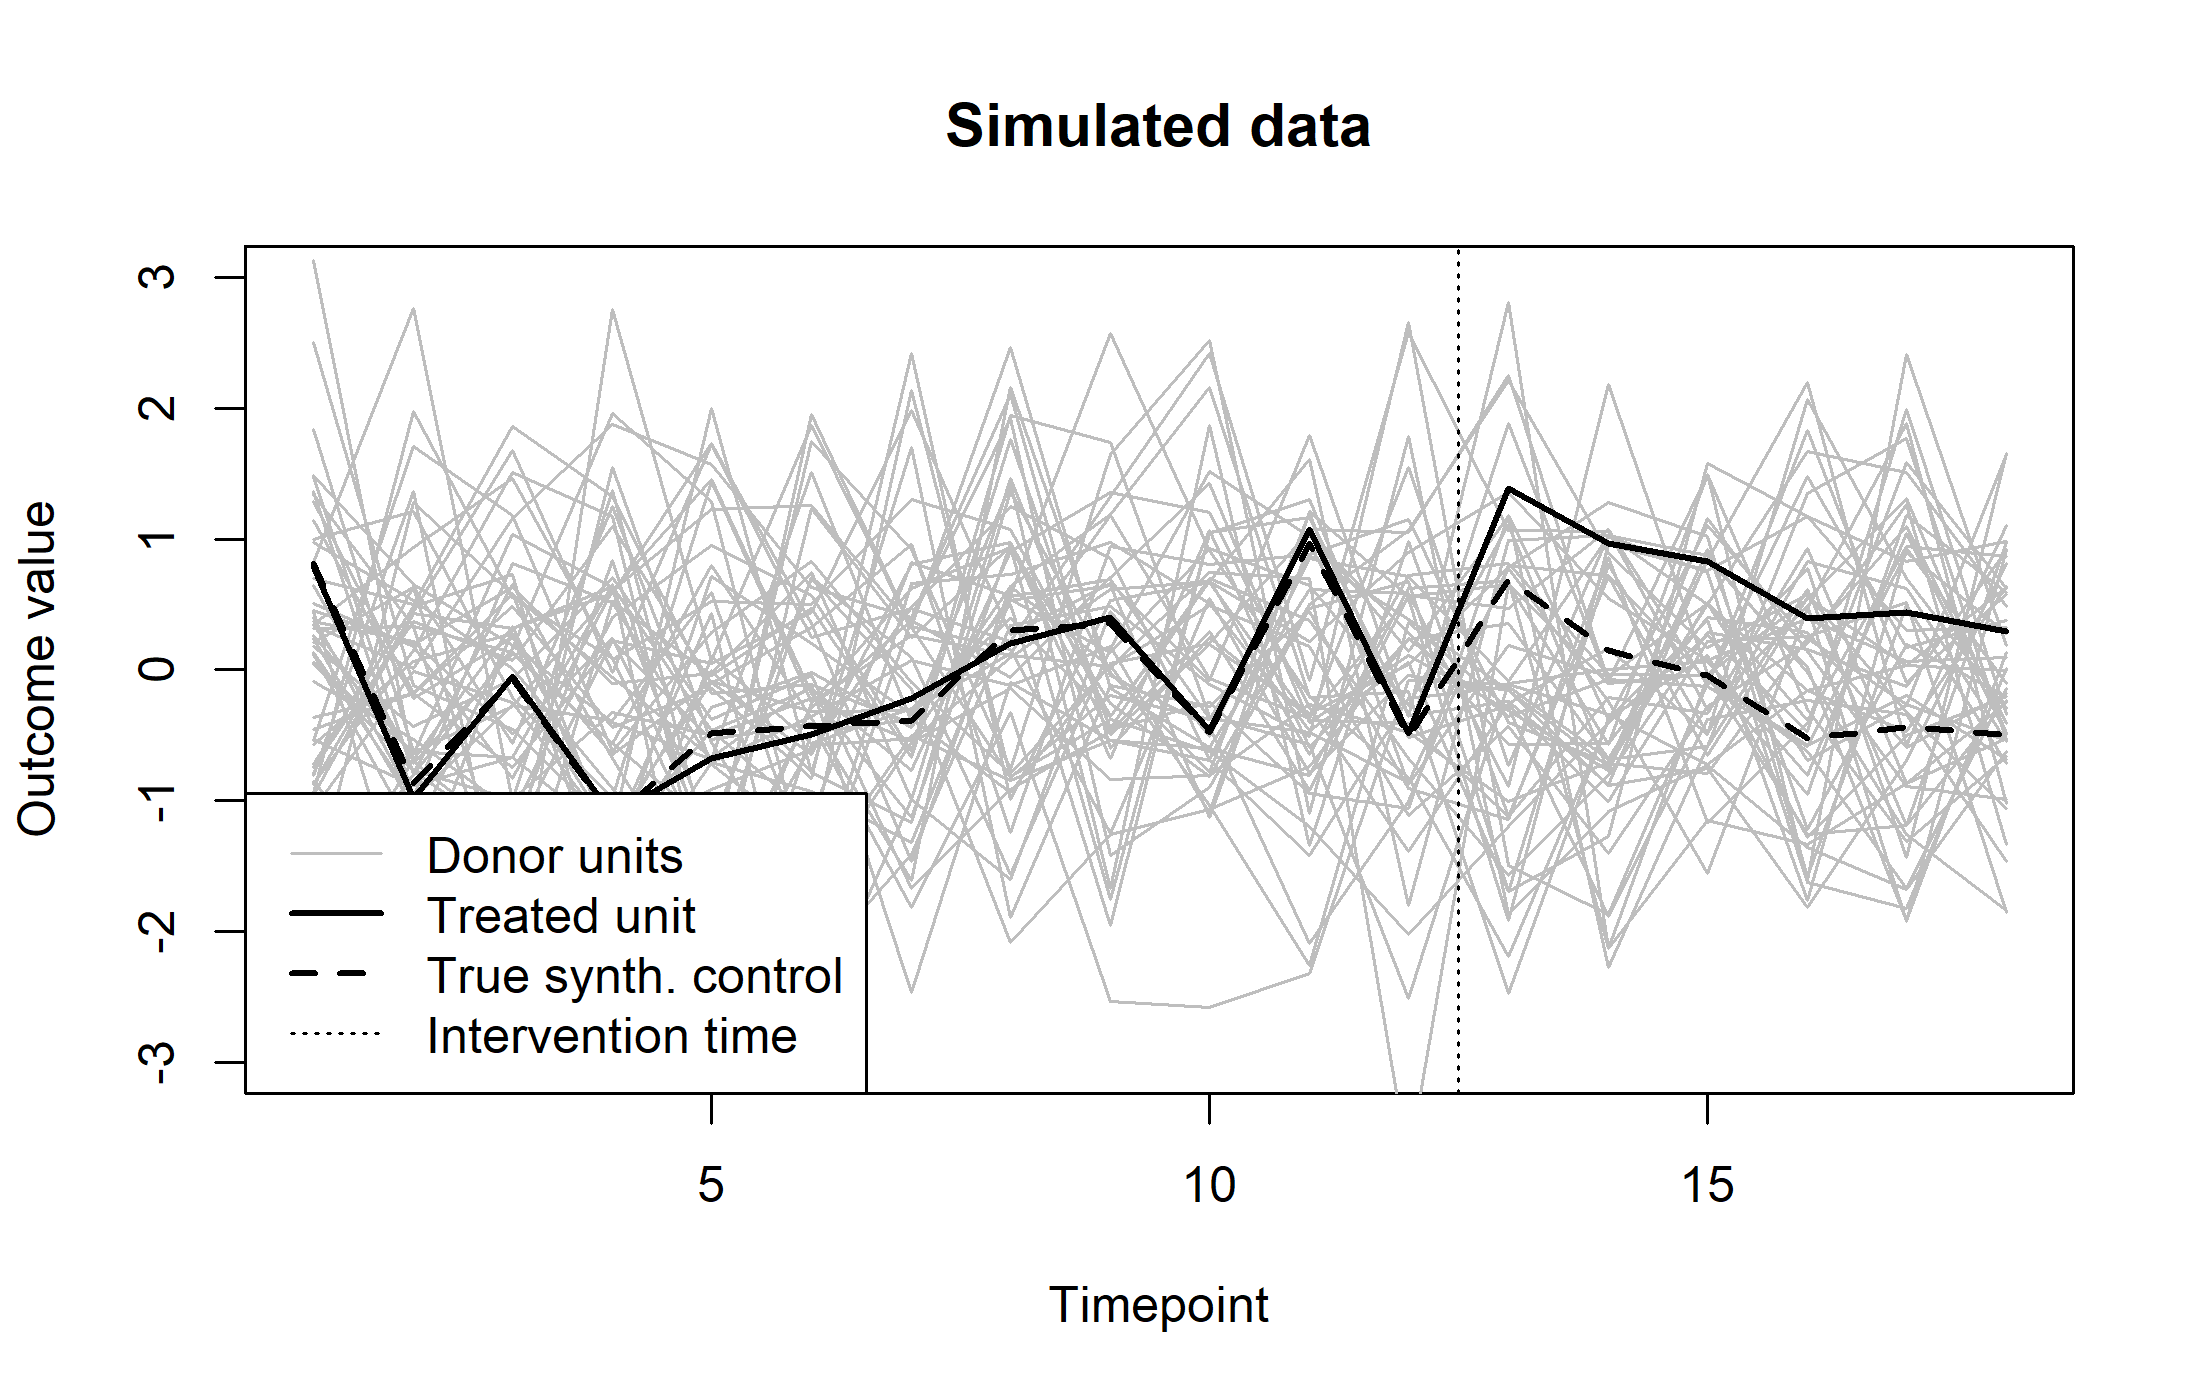
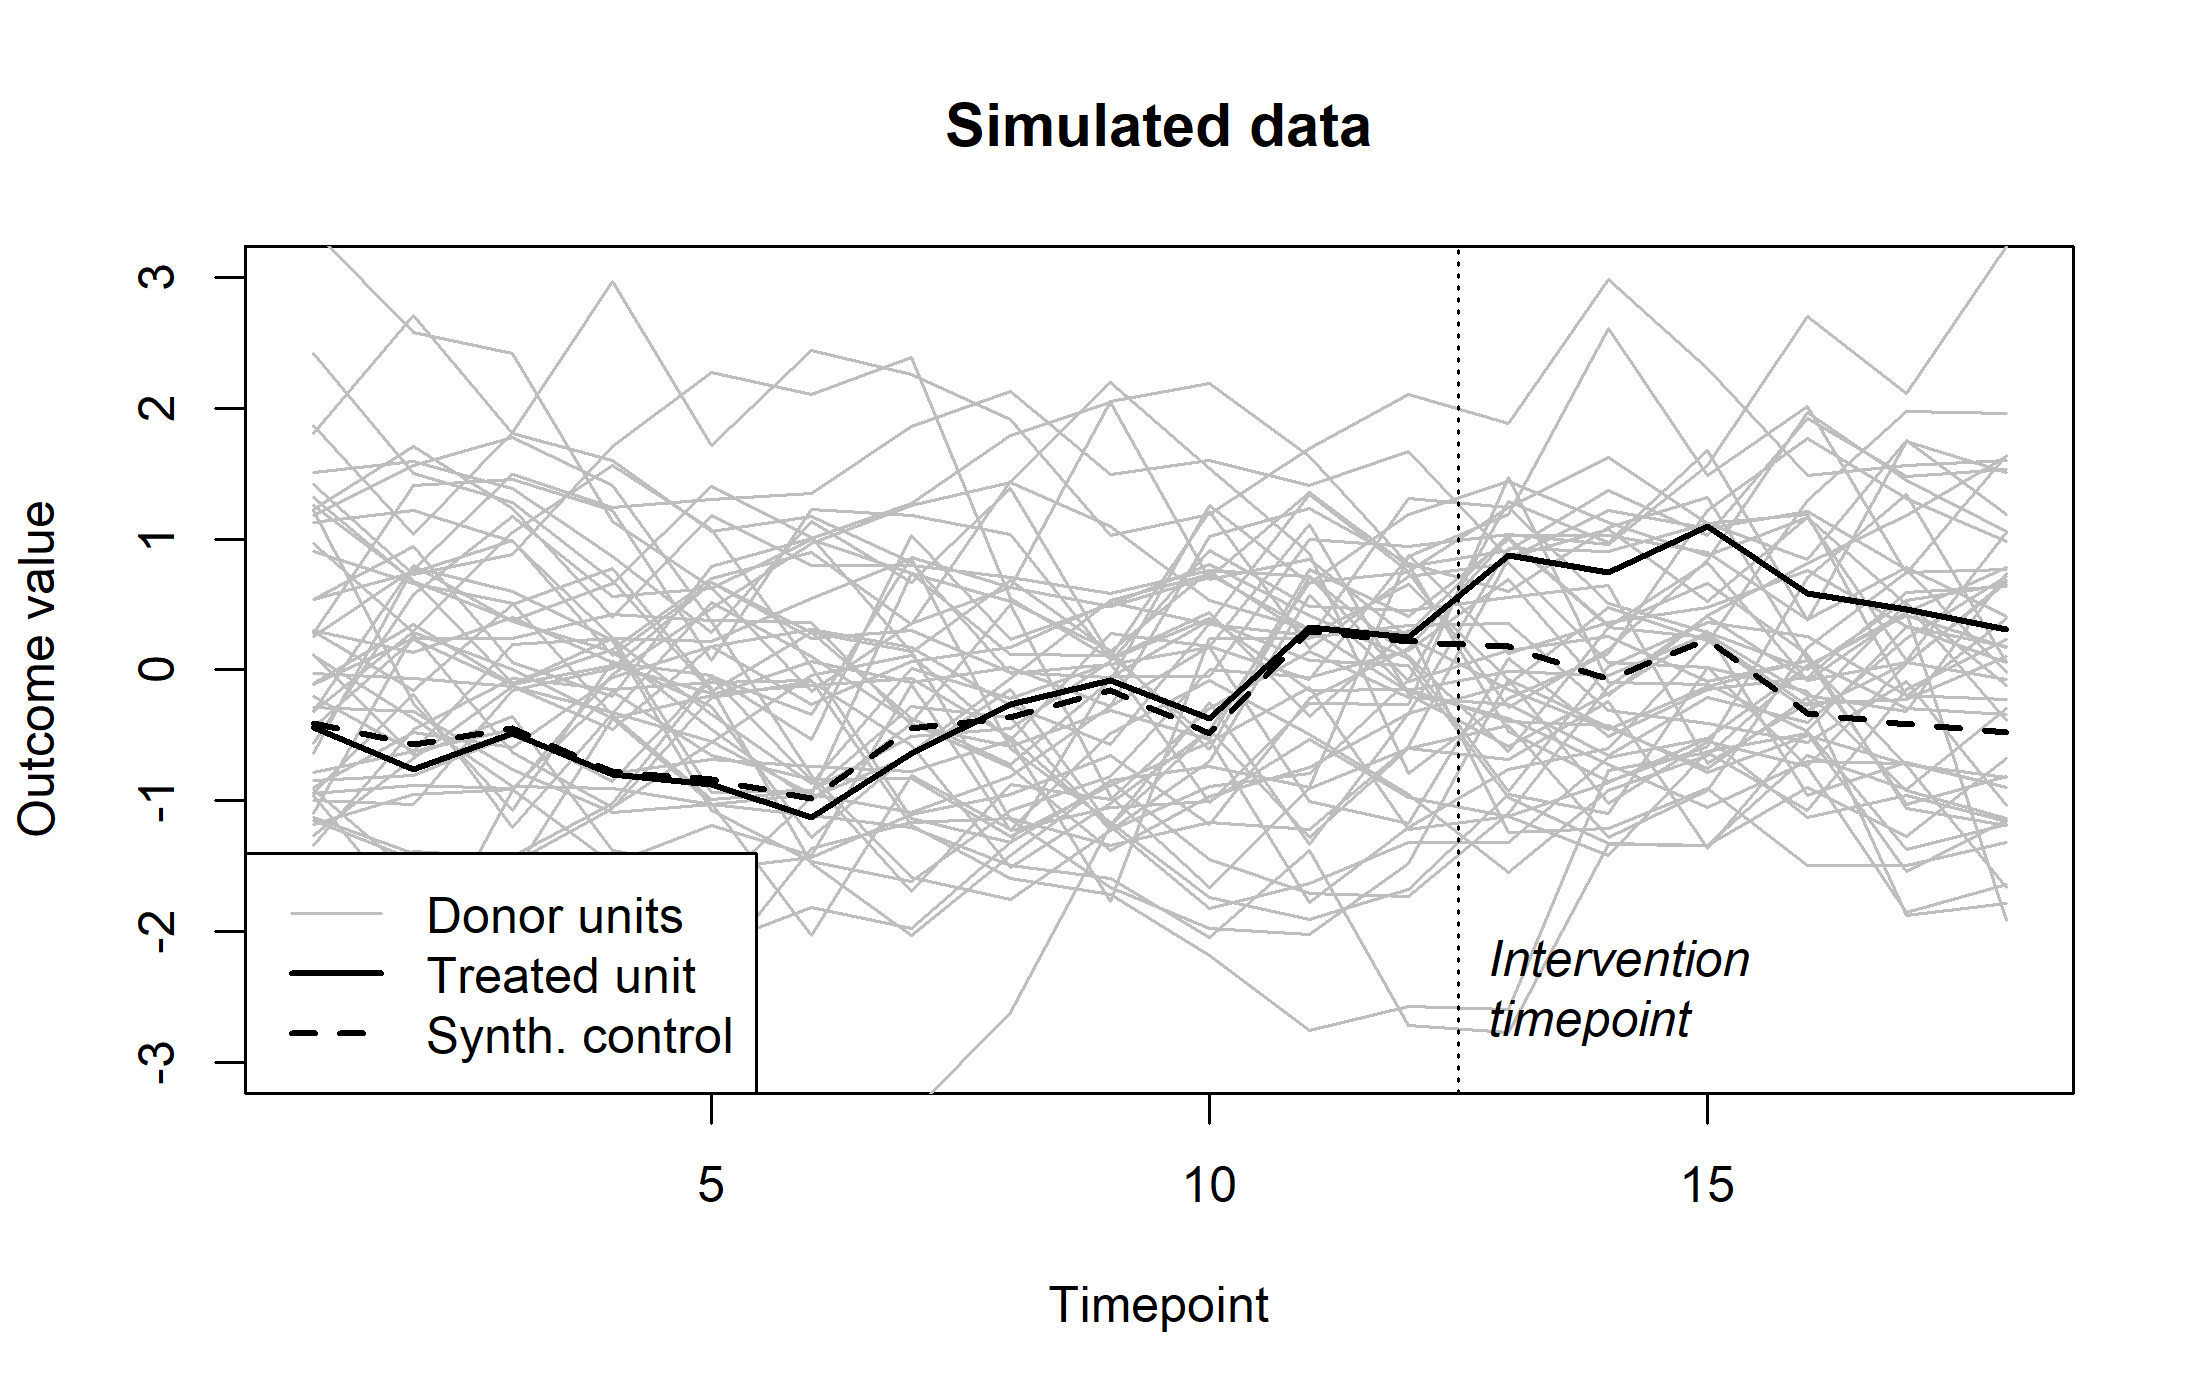
Update readme for new data simulation function
Also remove the placebo test from the readme because it tends to not work so well. I would not endorse its use.

Other built-in inference methods will come soon

Changed region(s): [[0.1236, 0.215, 0.9273, 0.7679], [0.1236, 0.645, 0.1545, 0.6757]]

diff --git a/README.md b/README.md
@@ -97,25 +97,7 @@ Y1_synth <- predict(
   newdata = dat$Y0 # Donor units post-intervention outcome
 )
 mean(dat$Y1 - Y1_synth)
-#> [1] 0.8863562
-```
-
-We can use a placebo test (a kind of permutation test) to compare the effect to a reference distribution. This applies the penalized synthetic control method to each of the donors, including hold-out validation, and then computes the estimated treatment effect.
-
-```r
-# Perform a placebo permutation test
-fit_test <- placebo_test(fit, dat$Y1, dat$Y0)
-plot(fit_test)
-abline(h = 0.8, lty = 2)
-legend("bottomright", lty = 2, legend = "True effect")
-```
-![testplot](img/testplot.png)
-
-Finally, we can compute a kind of p-value using the placebo-permuted ATE as reference distribution
-```r
-# compute a placebo-p-value
-1 - ecdf(fit_test$ATE0)(fit_test$ATE1)
-#> [1] 0.04
+#> [1] 0.8780154
 ```
 
 # References
